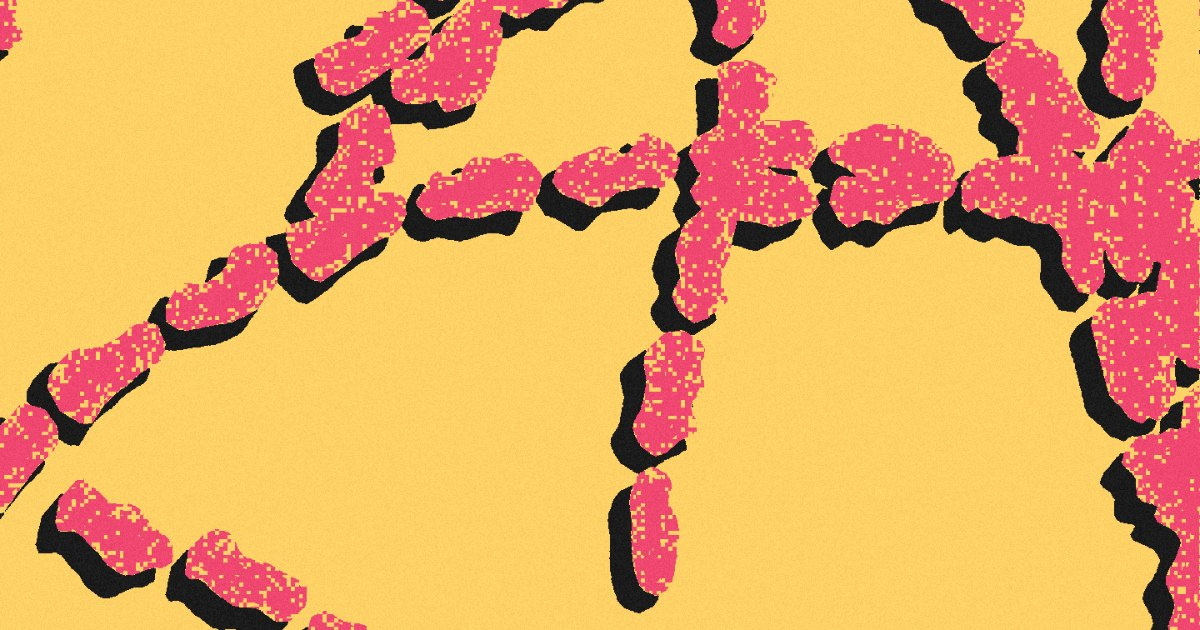
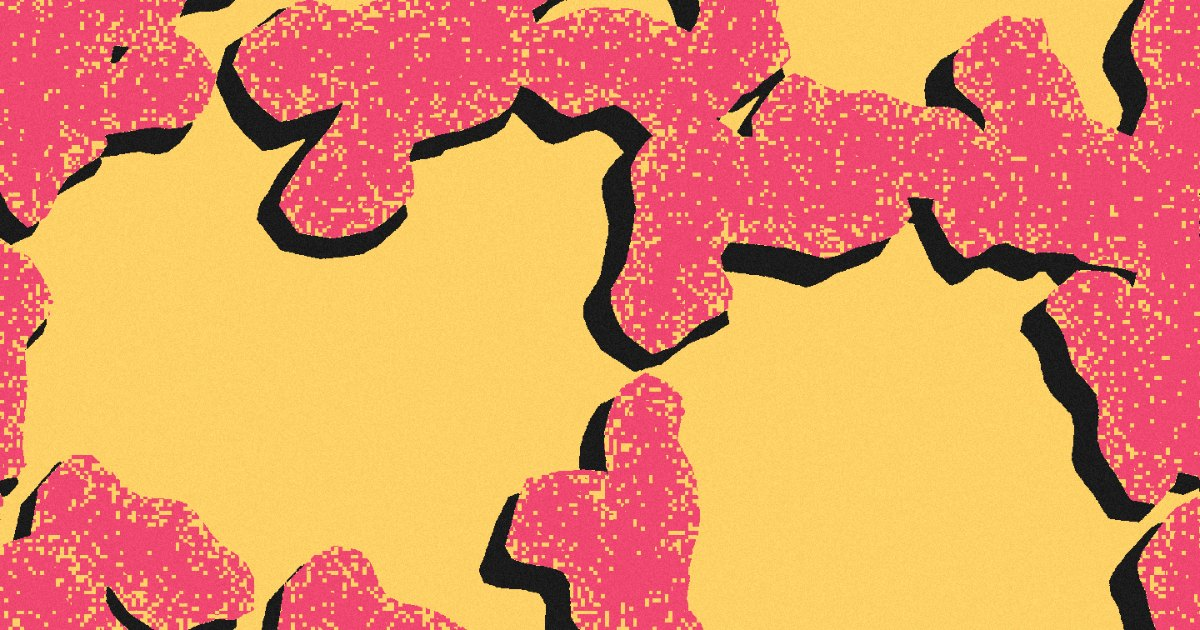
Strand opens at full rod thickness; Stitch's gutter is a fixed 20 percent
The gutter was still being dealt by the variation number, so the sheet
opened at whatever the deal gave. It now stays where it is set, at 20
percent, and only the dial moves it. Both sharing cards re-rendered.

Claude-Session: https://claude.ai/code/session_01Hb5jk9z6h4o1AzZNFzskh6

diff --git a/stitch/index.html b/stitch/index.html
@@ -592,7 +592,7 @@ input[type=range]{accent-color:var(--ink)}
       </div>
     </div>
     <div class="l-scroll"><details class="grp" open><summary>Grid</summary><div class="grp-b"><div class="pr"><div class="top"><span class="k">Columns</span><span class="v" id="colsVal">48</span></div><div class="track"><input type="range" id="cols" min="16" max="96" step="1" value="48"></div></div>
-        <div class="pr"><div class="top"><span class="k">Gutter</span><span class="v" id="gutterVal">17%</span></div><div class="track"><input type="range" id="gutter" min="0" max="1" step="0.01" value="0.17"></div></div></div></details>
+        <div class="pr"><div class="top"><span class="k">Gutter</span><span class="v" id="gutterVal">20%</span></div><div class="track"><input type="range" id="gutter" min="0" max="1" step="0.01" value="0.2"></div></div></div></details>
     <details class="grp"><summary>Field</summary><div class="grp-b"><div class="pr"><div class="top"><span class="k">Streak</span><span class="v" id="streakVal">80%</span></div><div class="track"><input type="range" id="streak" min="0" max="1" step="0.01" value="0.8"></div></div>
         <div class="pr"><div class="top"><span class="k">Scale</span><span class="v" id="scaleVal">50%</span></div><div class="track"><input type="range" id="scale" min="0" max="1" step="0.01" value="0.5"></div></div>
         <div class="pr"><div class="top"><span class="k">Slip</span><span class="v" id="slipVal">40%</span></div><div class="track"><input type="range" id="slip" min="0" max="1" step="0.01" value="0.4"></div></div>
@@ -711,7 +711,7 @@ const PALETTES=[
    adjusted from where it landed. */
 const S={
   seed:7, ratio:"3:4",
-  cols:48, gutter:0.17,
+  cols:48, gutter:0.2,
   streak:0.8, scale:0.5, slip:0.4, band:5, blobs:0.35, blobsize:0.5,
   steps:7, ground:0.35, stray:0.3,
   pal:PALETTES[0].slice(),
@@ -738,11 +738,10 @@ function rngS(seed){
 /* The deal: everything lands somewhere near the reference frame rather
    than on a corner of the settings nobody would choose. */
 function dealS(seed){
-  /* the palette is not dealt: the sheet opens in its own set, and New
-     colors is the way to another */
+  /* the palette and the gutter are not dealt: the sheet opens in its own
+     set with a fine gutter, and New colors is the way to another palette */
   const r=rngS(Math.imul(seed|0,2654435761)^0x5bd1e995);
   S.cols=32+((r()*33)|0);
-  S.gutter=0.2+r()*0.4;
   S.streak=0.5+r()*0.45;
   S.scale=0.3+r()*0.5;
   S.slip=0.2+r()*0.5;

diff --git a/strand/index.html b/strand/index.html
@@ -595,7 +595,7 @@ input[type=range]{accent-color:var(--ink)}
         <div class="pr"><div class="top"><span class="k">Length</span><span class="v" id="lenVal">22</span></div><div class="track"><input type="range" id="len" min="3" max="90" step="1" value="22"></div></div>
         <div class="pr"><div class="top"><span class="k">Wander</span><span class="v" id="wanderVal">60%</span></div><div class="track"><input type="range" id="wander" min="0" max="1" step="0.01" value="0.6"></div></div>
         <div class="pr"><div class="top"><span class="k">Branching</span><span class="v" id="branchVal">22%</span></div><div class="track"><input type="range" id="branch" min="0" max="1" step="0.01" value="0.22"></div></div></div></details>
-    <details class="grp"><summary>Rods</summary><div class="grp-b"><div class="pr"><div class="top"><span class="k">Thickness</span><span class="v" id="thickVal">42%</span></div><div class="track"><input type="range" id="thick" min="0" max="1" step="0.01" value="0.42"></div></div>
+    <details class="grp"><summary>Rods</summary><div class="grp-b"><div class="pr"><div class="top"><span class="k">Thickness</span><span class="v" id="thickVal">100%</span></div><div class="track"><input type="range" id="thick" min="0" max="1" step="0.01" value="1"></div></div>
         <div class="pr"><div class="top"><span class="k">Rod length</span><span class="v" id="rodVal">50%</span></div><div class="track"><input type="range" id="rod" min="0" max="1" step="0.01" value="0.5"></div></div>
         <div class="pr"><div class="top"><span class="k">Notch</span><span class="v" id="notchVal">18%</span></div><div class="track"><input type="range" id="notch" min="0" max="1" step="0.01" value="0.18"></div></div>
         <div class="pr"><div class="top"><span class="k">Roughness</span><span class="v" id="roughVal">55%</span></div><div class="track"><input type="range" id="rough" min="0" max="1" step="0.01" value="0.55"></div></div></div></details>
@@ -706,7 +706,7 @@ const PALETTES=[
 const S={
   seed:4, ratio:"3:4",
   count:8, len:22, wander:0.6, branch:0.22,
-  thick:0.42, rod:0.5, notch:0.18, rough:0.55,
+  thick:1, rod:0.5, notch:0.18, rough:0.55,
   offset:0.5, edge:0.35, grain:0.42,
   tex:0.4, texKind:"stipple",
   pal:PALETTES[0].slice(),
